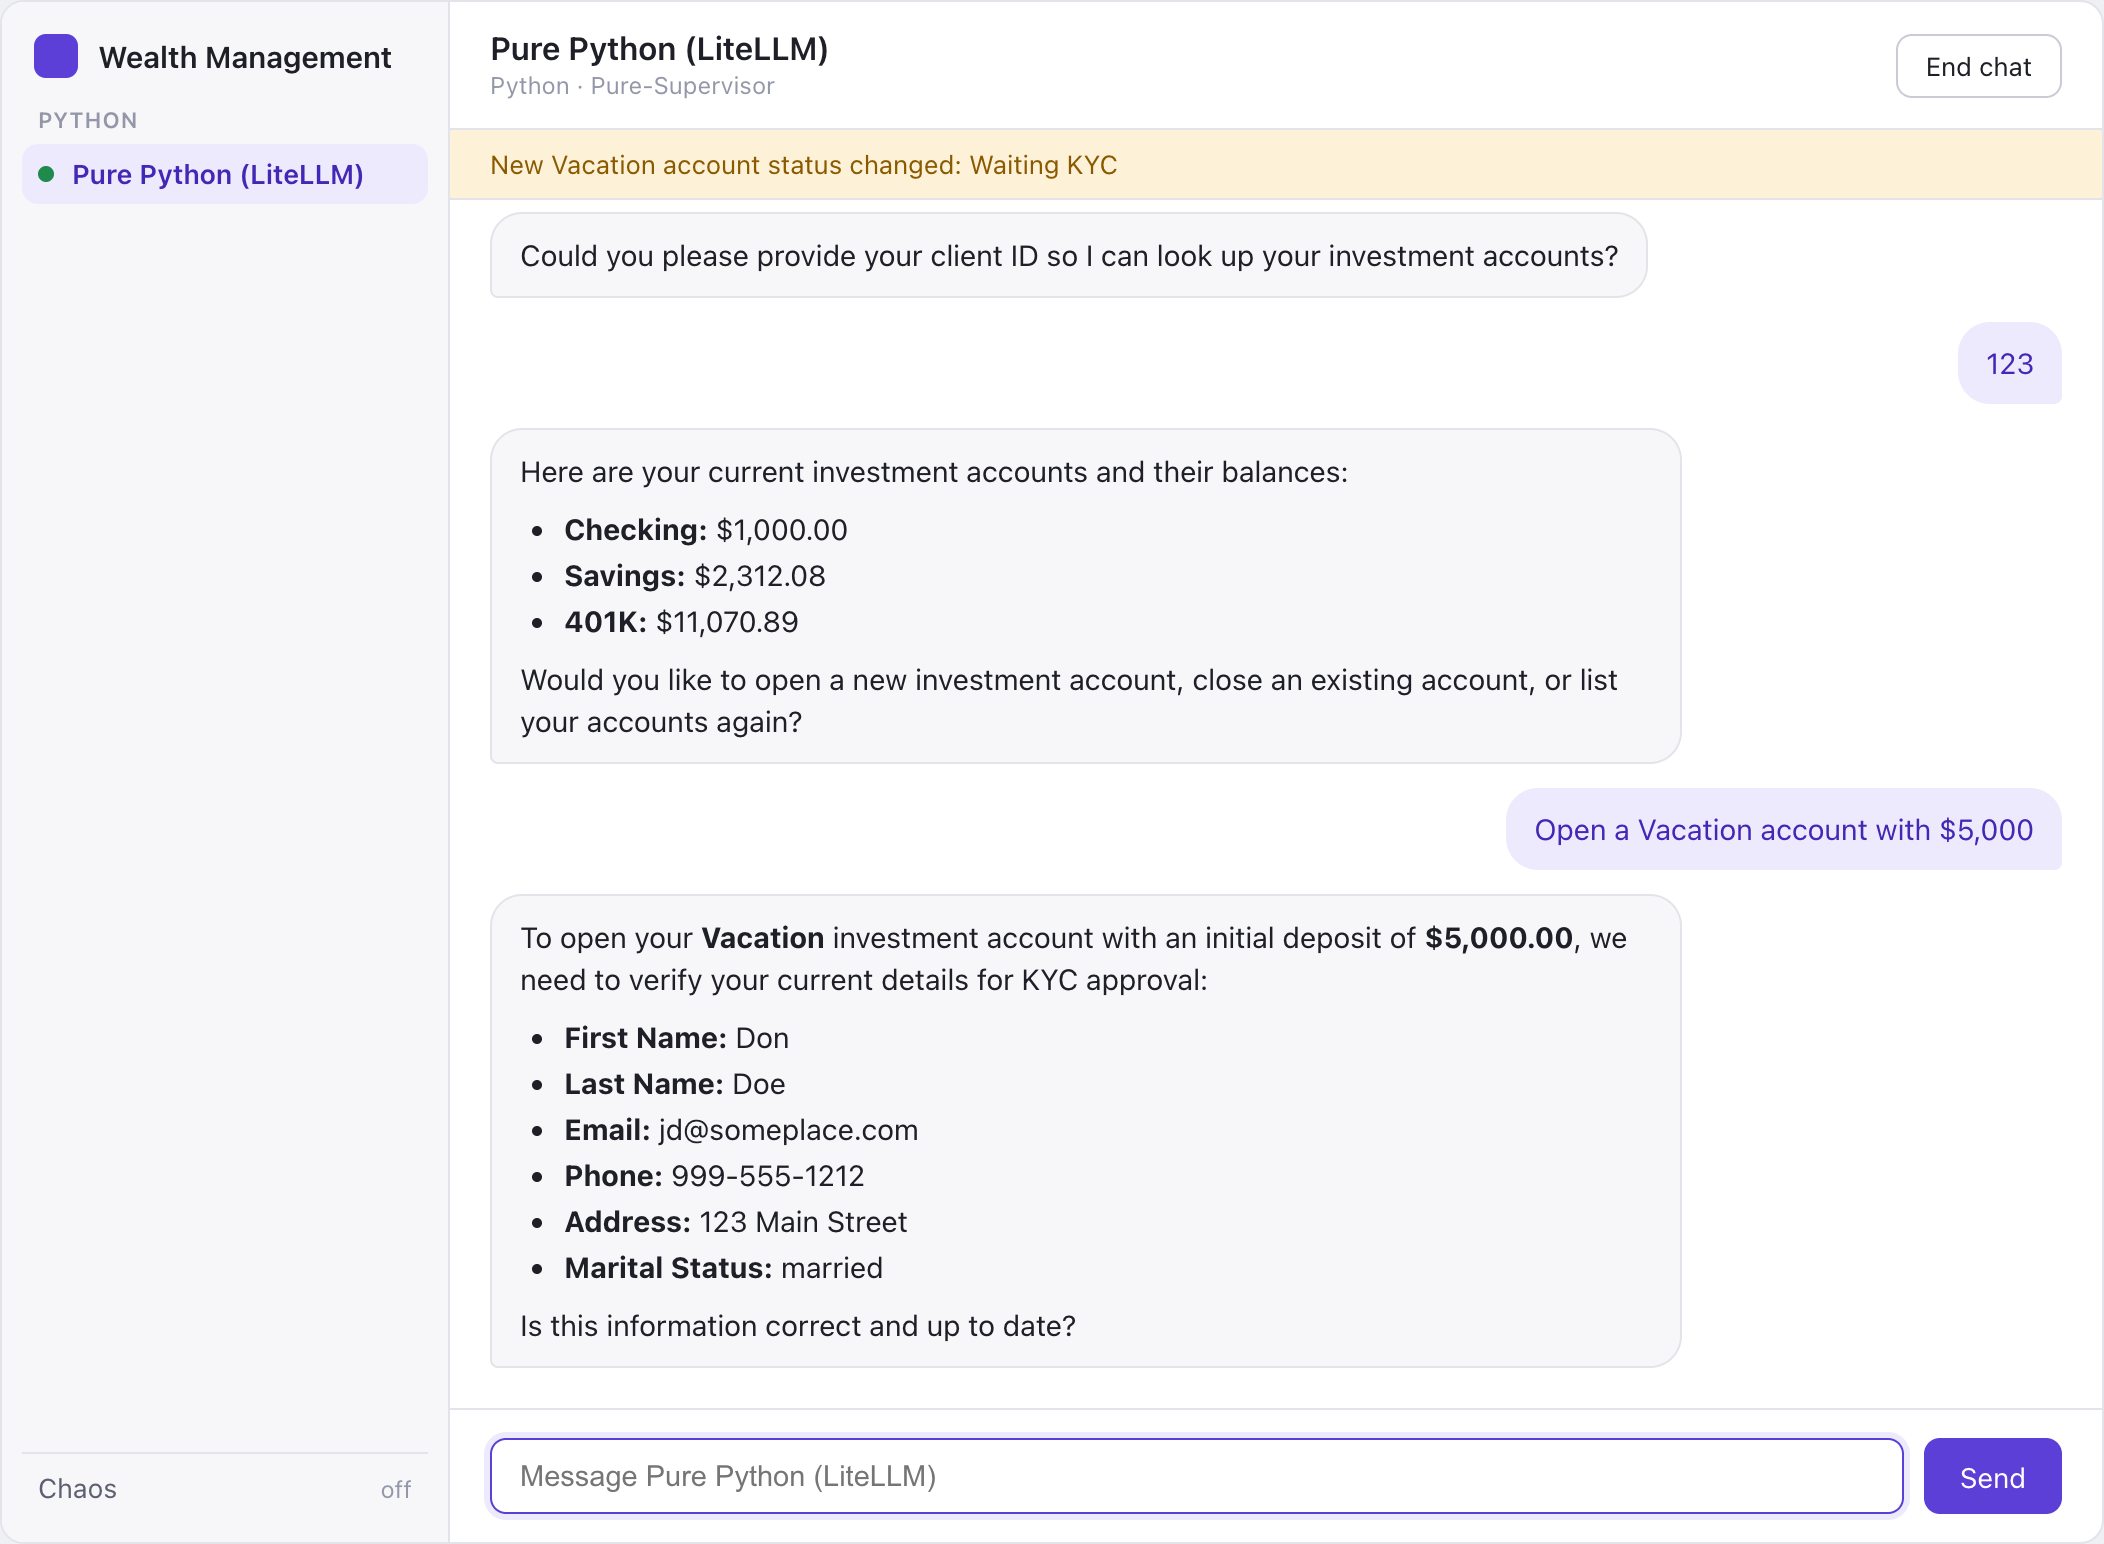
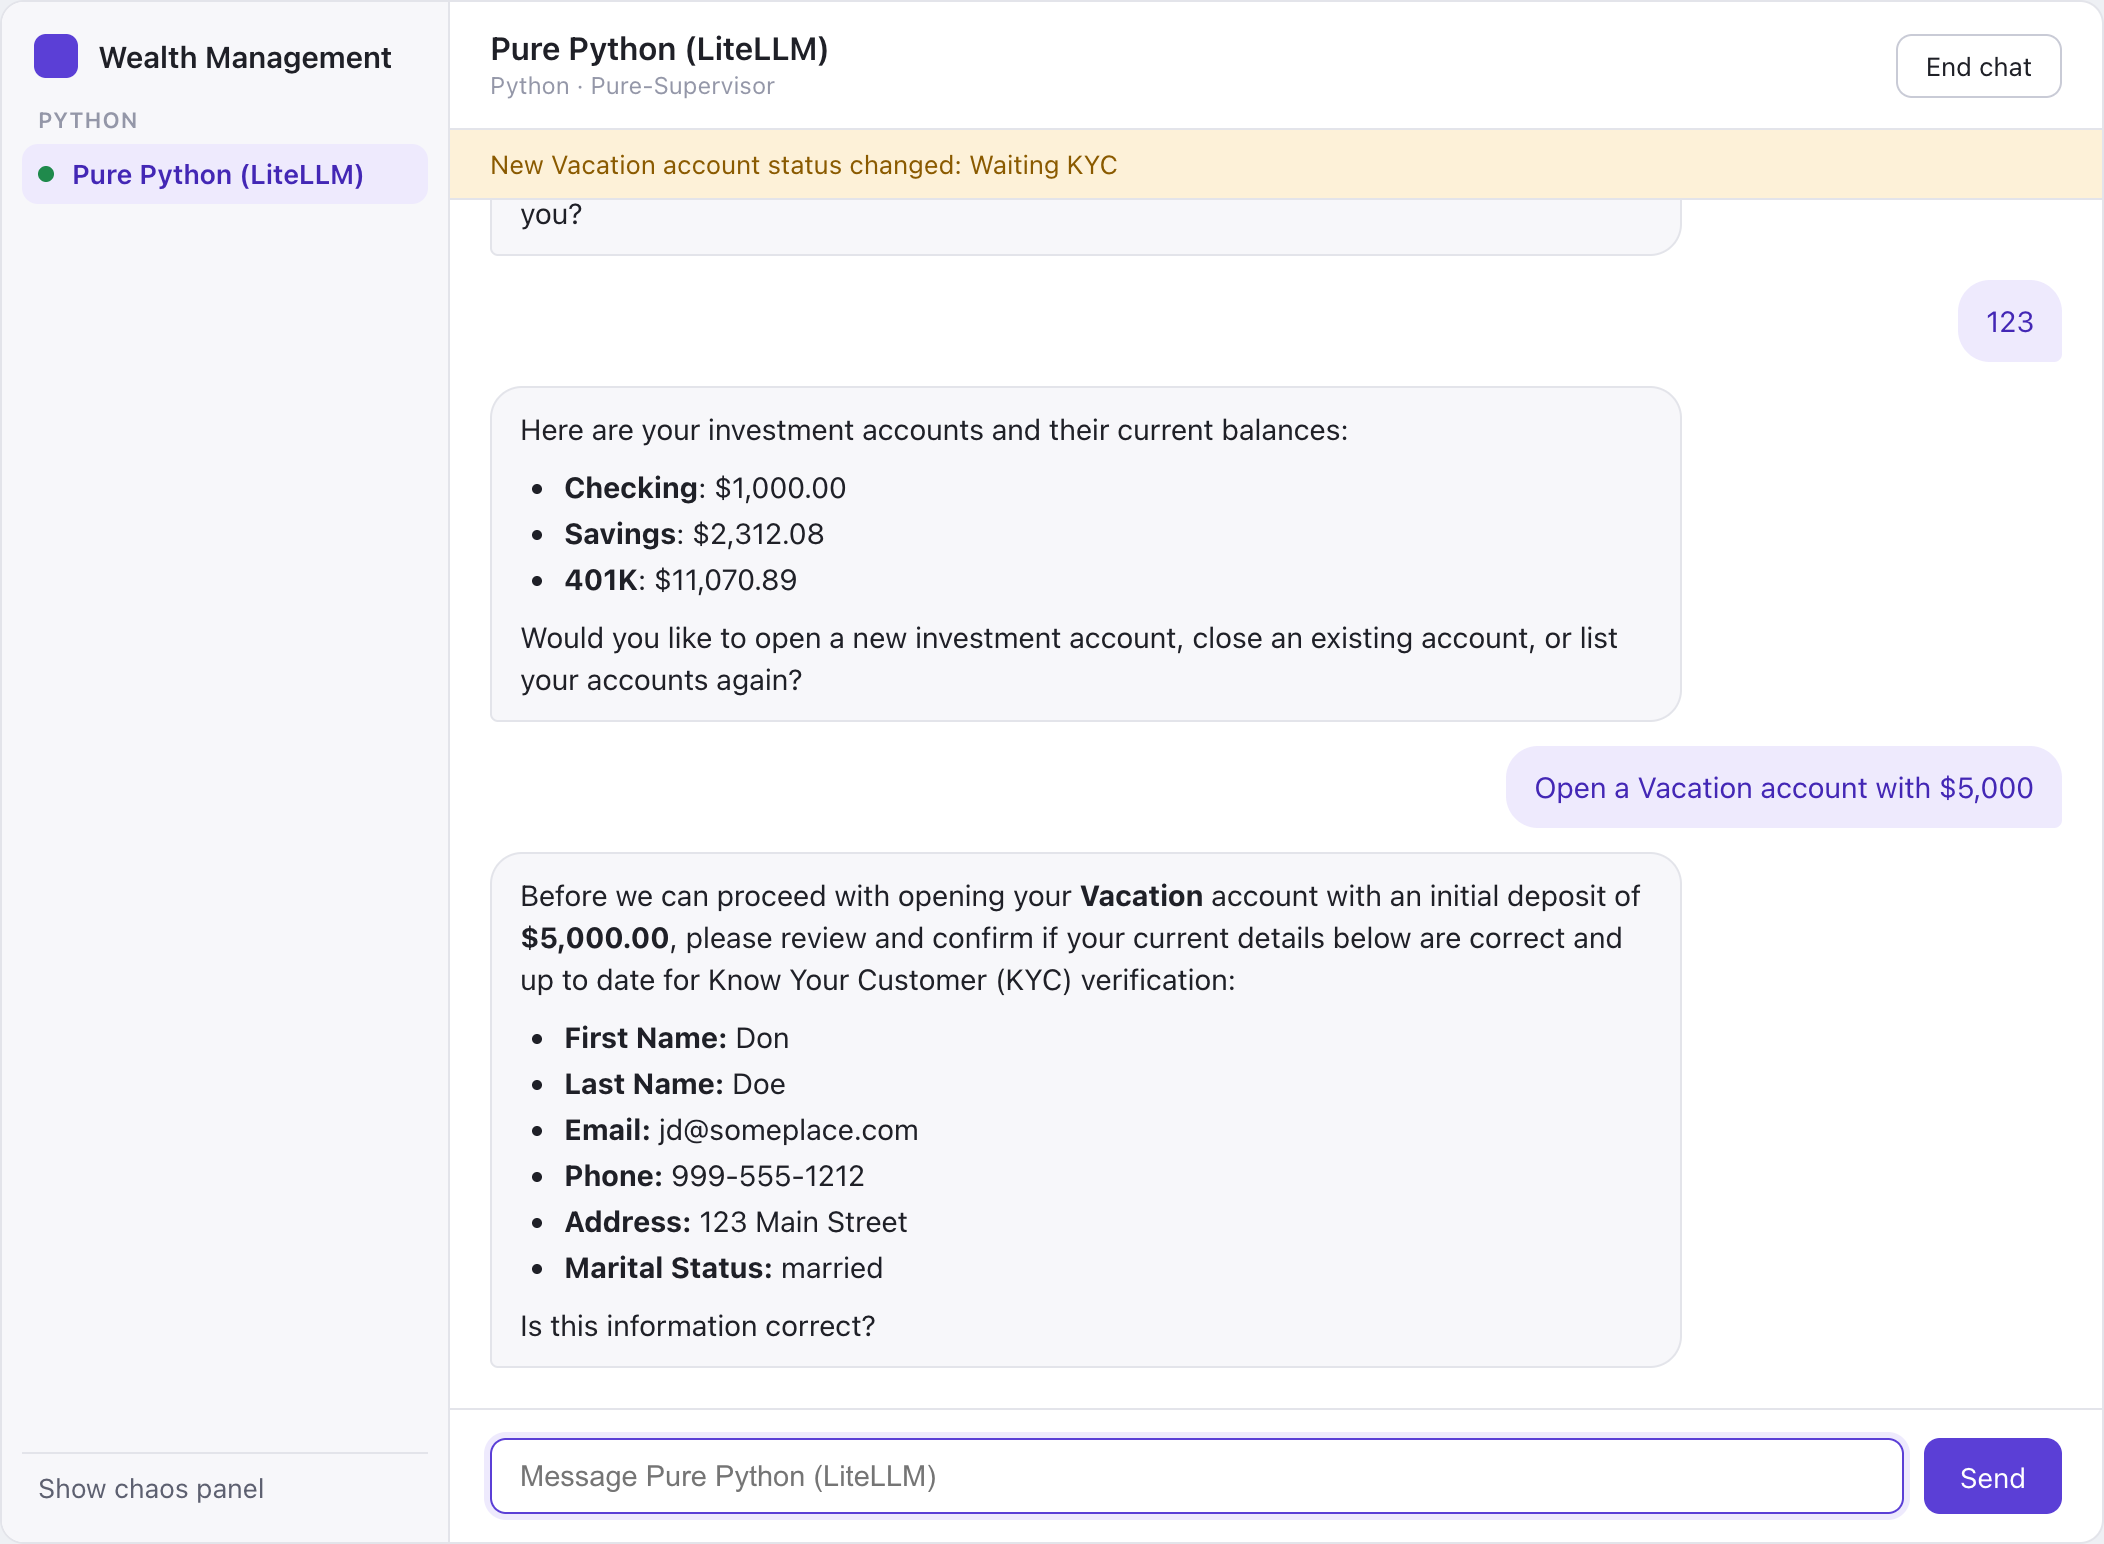
Label the chaos button with what clicking it does
The sidebar's chaos button read "Chaos" with "off" beside it, whether the panel was open or not. It
now says "Show chaos panel" or "Hide chaos panel", with a red count beside it only while flags are on.
The READMEs name the button and where it is (several still said the chat header), and the web UI
screenshots are retaken.

diff --git a/frontend/src/App.test.js b/frontend/src/App.test.js
@@ -3,6 +3,7 @@ import App from './App';
 
 afterEach(() => {
   jest.restoreAllMocks();
+  localStorage.clear();
 });
 
 // A fetch that answers /config with the given body (or fails it) and records every URL.
@@ -23,6 +24,9 @@ function mockApi(config, history = []) {
     if (url.endsWith('/config')) {
       if (config === null) throw new Error('no /config');
       return { ok: true, json: async () => config };
+    }
+    if (url.endsWith('/chaos')) {
+      return { ok: true, json: async () => ({ flags: [], events: [] }) };
     }
     if (url.includes('/start-workflow')) {
       const framework = new URL(url, 'http://localhost').searchParams.get('framework');
@@ -228,4 +232,24 @@ test('shows how many chaos flags are on in the sidebar', async () => {
   render(<App />);
   expect(await screen.findByText('2 on')).toBeInTheDocument();
   expect(original).toBeDefined();
+});
+
+test('the chaos button says what clicking it does', async () => {
+  mockApi(TWO);
+  render(<App />);
+  await screen.findByRole('tab', { name: 'Strands' });
+
+  fireEvent.click(screen.getByRole('button', { name: 'Show chaos panel' }));
+  expect(await screen.findByText('Chaos panel')).toBeInTheDocument();
+
+  fireEvent.click(screen.getByRole('button', { name: 'Hide chaos panel' }));
+  expect(screen.queryByText('Chaos panel')).toBeNull();
+  expect(screen.getByRole('button', { name: 'Show chaos panel' })).toBeInTheDocument();
+});
+
+test('with no chaos flags on, the chaos button shows no count', async () => {
+  mockApi(TWO);
+  render(<App />);
+  await screen.findByRole('tab', { name: 'Strands' });
+  expect(screen.getByRole('button', { name: 'Show chaos panel' })).toHaveTextContent(/^Show chaos panel$/);
 });

diff --git a/frontend/src/App.js b/frontend/src/App.js
@@ -188,10 +188,8 @@ function App() {
             onClick={handleToggleChaos}
             aria-pressed={showChaos}
           >
-            <span>Chaos</span>
-            <span className={`chaos-count ${chaosCount ? 'on' : ''}`}>
-              {chaosCount ? `${chaosCount} on` : 'off'}
-            </span>
+            <span>{showChaos ? 'Hide chaos panel' : 'Show chaos panel'}</span>
+            {chaosCount > 0 && <span className="chaos-count on">{chaosCount} on</span>}
           </button>
         </nav>
         <main className="chat-area">

diff --git a/frontend/README.md b/frontend/README.md
@@ -74,7 +74,7 @@ at http://127.0.0.1:8000 (`"proxy"` in `package.json`). That way the browser kee
 keeps each browser's chats, chaos flags and (with `DEMO_DATA_STORE=redis`) sample data apart from other browsers'. See
 [Browser sessions](../src/python/api/README.md#browser-sessions).
 
-Click **Chaos** at the bottom of the sidebar to open the chaos panel, which turns failure scenarios on and off
+Click **Show chaos panel** at the bottom of the sidebar to open the chaos panel (**Hide chaos panel** closes it), which turns failure scenarios on and off
 at runtime and lists the failures as they happen. See
 [Failure scenarios](../src/python/openai_agents/durable/README.md#failure-scenarios-chaos-panel).
 
@@ -107,7 +107,8 @@ npm test
 ## Example
 
 Here's the web application with three frameworks, a chat running in each, and the chaos panel open. The sidebar
-lists the frameworks the API serves (from its `GET /api/config`), and **Chaos** at its bottom opens or hides the chaos
-panel, which turns failures on and off while you chat. The sidebar shows how many flags are on:
+lists the frameworks the API serves (from its `GET /api/config`), and **Show chaos panel** / **Hide chaos panel** at its bottom
+opens or hides the chaos panel, which turns failures on and off while you chat. Next to it, the sidebar shows how many
+flags are on:
 
 ![](../docs/images/webui.png)

diff --git a/src/typescript/vercel_ai/durable/README.md b/src/typescript/vercel_ai/durable/README.md
@@ -256,7 +256,7 @@ the Java worker's `startcloudworker.sh`.
 
 ## Failure scenarios (chaos panel)
 
-Click **Chaos** in the web UI's chat header to open the chaos panel. Activities and the model read the
+Click **Show chaos panel** at the bottom of the web UI's sidebar to open the chaos panel. Activities and the model read the
 flags from Redis (`chaos:<session>:flags`, one set per browser session, found from the workflow ID) on every
 attempt, so you can turn a failure on and off mid-conversation with no restart. If Redis can't be reached, the flags read as off. The panel lists each injected failure
 (activity and attempt number); **Reset all** turns every flag off and clears the log. Open the Temporal

diff --git a/src/python/pyai/durable/README.md b/src/python/pyai/durable/README.md
@@ -239,7 +239,7 @@ workflow calls by name on `PYAI-Supervisor`.
 
 ## Failure scenarios (chaos panel)
 
-The chaos panel (**Chaos** in the chat header) injects failures at runtime: activities, agent tools
+The chaos panel (**Show chaos panel** at the bottom of the web UI's sidebar) injects failures at runtime: activities, agent tools
 and the model read its flags from Redis on every attempt, so a failure can be turned on and off
 mid-conversation. It lists each injected failure; the Temporal UI shows the pending activity, its
 attempts and last failure. **Reset all** clears every flag. Flags belong to your browser session: they fail only that browser's chats, in any framework (see

diff --git a/src/python/openai_agents/durable/README.md b/src/python/openai_agents/durable/README.md
@@ -231,7 +231,7 @@ workflow calls by name on `OAI-Supervisor`.
 
 ## Failure scenarios (chaos panel)
 
-The chaos panel (**Chaos** in the chat header) injects failures at runtime: activities and the model
+The chaos panel (**Show chaos panel** at the bottom of the web UI's sidebar) injects failures at runtime: activities and the model
 read its flags from Redis on every attempt, so a failure can be turned on and off mid-conversation. It
 lists each injected failure; the Temporal UI shows the pending activity, its attempts and last
 failure. **Reset all** clears every flag. Flags belong to your browser session: they fail only that browser's chats, in any framework (see

diff --git a/src/go/google_adk/docs/temporal.md b/src/go/google_adk/docs/temporal.md
@@ -246,7 +246,7 @@ The chat workflow, the tool activities and the model calls stay on the Go worker
 
 ## Failure scenarios (chaos panel)
 
-Open the chaos panel with the **Chaos** button in the web UI. Each switch takes effect at once, with no
+Open the chaos panel with **Show chaos panel** at the bottom of the web UI's sidebar. Each switch takes effect at once, with no
 restart: activities and every model call read the flags from the Redis hash `chaos:<session>:flags` on each attempt.
 If Redis can't be reached, the flags read as off. Each injected failure is logged to the Redis list
 `chaos:<session>:events` for the panel. Watch the retries in the Temporal UI.

diff --git a/src/python/google_adk/durable/README.md b/src/python/google_adk/durable/README.md
@@ -256,7 +256,7 @@ Java worker's `startcloudworker.sh`.
 
 ## Failure scenarios (chaos panel)
 
-Click **Chaos** in the chat header to open the chaos panel. Its switches inject failures at runtime: the
+Click **Show chaos panel** at the bottom of the web UI's sidebar to open the chaos panel. Its switches inject failures at runtime: the
 activities and the model read the flags from Redis on every attempt, so you can turn a failure on and off
 mid-conversation without restarting anything. The panel lists each injected failure as it happens. Open
 the [Temporal UI](http://localhost:8233) alongside it to show the pending activity, its attempt count and

diff --git a/src/python/strands_agents/durable/README.md b/src/python/strands_agents/durable/README.md
@@ -257,7 +257,7 @@ Java worker's `startcloudworker.sh`.
 
 ## Failure scenarios (chaos panel)
 
-Click **Chaos** in the chat header to open the chaos panel. Its switches inject failures at runtime: the
+Click **Show chaos panel** at the bottom of the web UI's sidebar to open the chaos panel. Its switches inject failures at runtime: the
 activities and the model read the flags from Redis on every attempt, so you can turn a failure on and off
 mid-conversation without restarting anything. The panel lists each injected failure as it happens. Open
 the [Temporal UI](http://localhost:8233) alongside it to show the pending activity, its attempt count and

diff --git a/src/python/pure/durable/README.md b/src/python/pure/durable/README.md
@@ -240,7 +240,7 @@ the Java worker's `startcloudworker.sh`.
 
 ## Failure scenarios (chaos panel)
 
-Click **Chaos** in the web UI's chat header to open the chaos panel. Activities and the model call read
+Click **Show chaos panel** at the bottom of the web UI's sidebar to open the chaos panel. Activities and the model call read
 the flags from the Redis hash `chaos:<session>:flags` (your browser session's, found from the workflow ID;
 see `common/session_scope.py`) on every attempt, so you can turn a failure on and off
 mid-conversation with no restart. If Redis can't be reached, the flags read as off. Each injected failure
